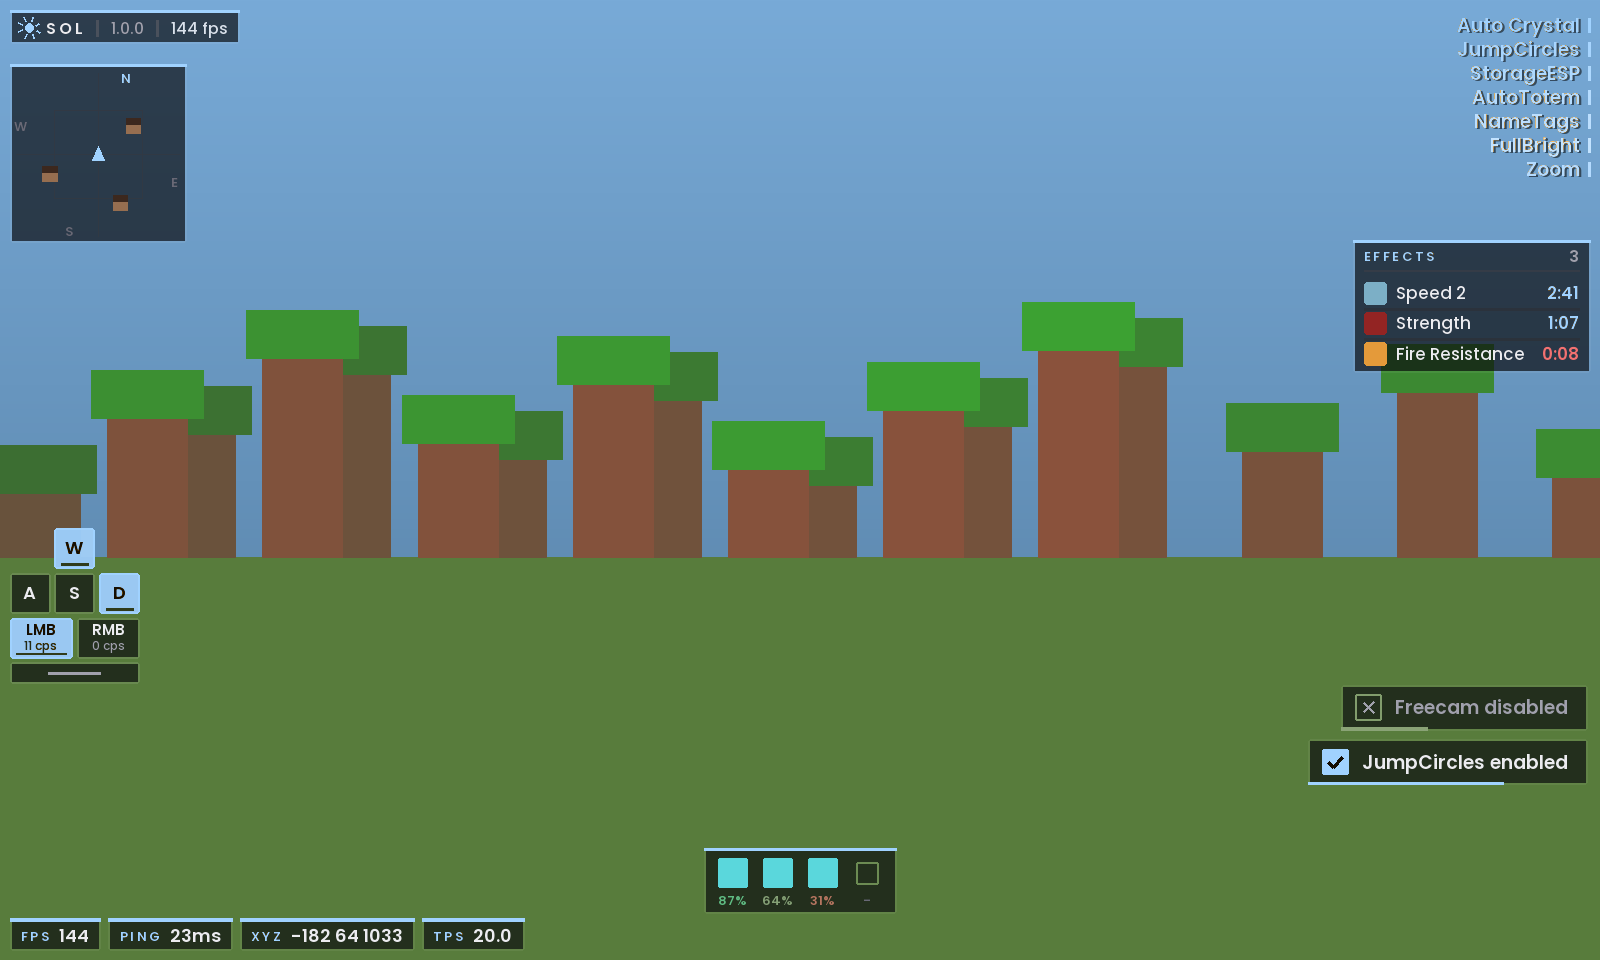
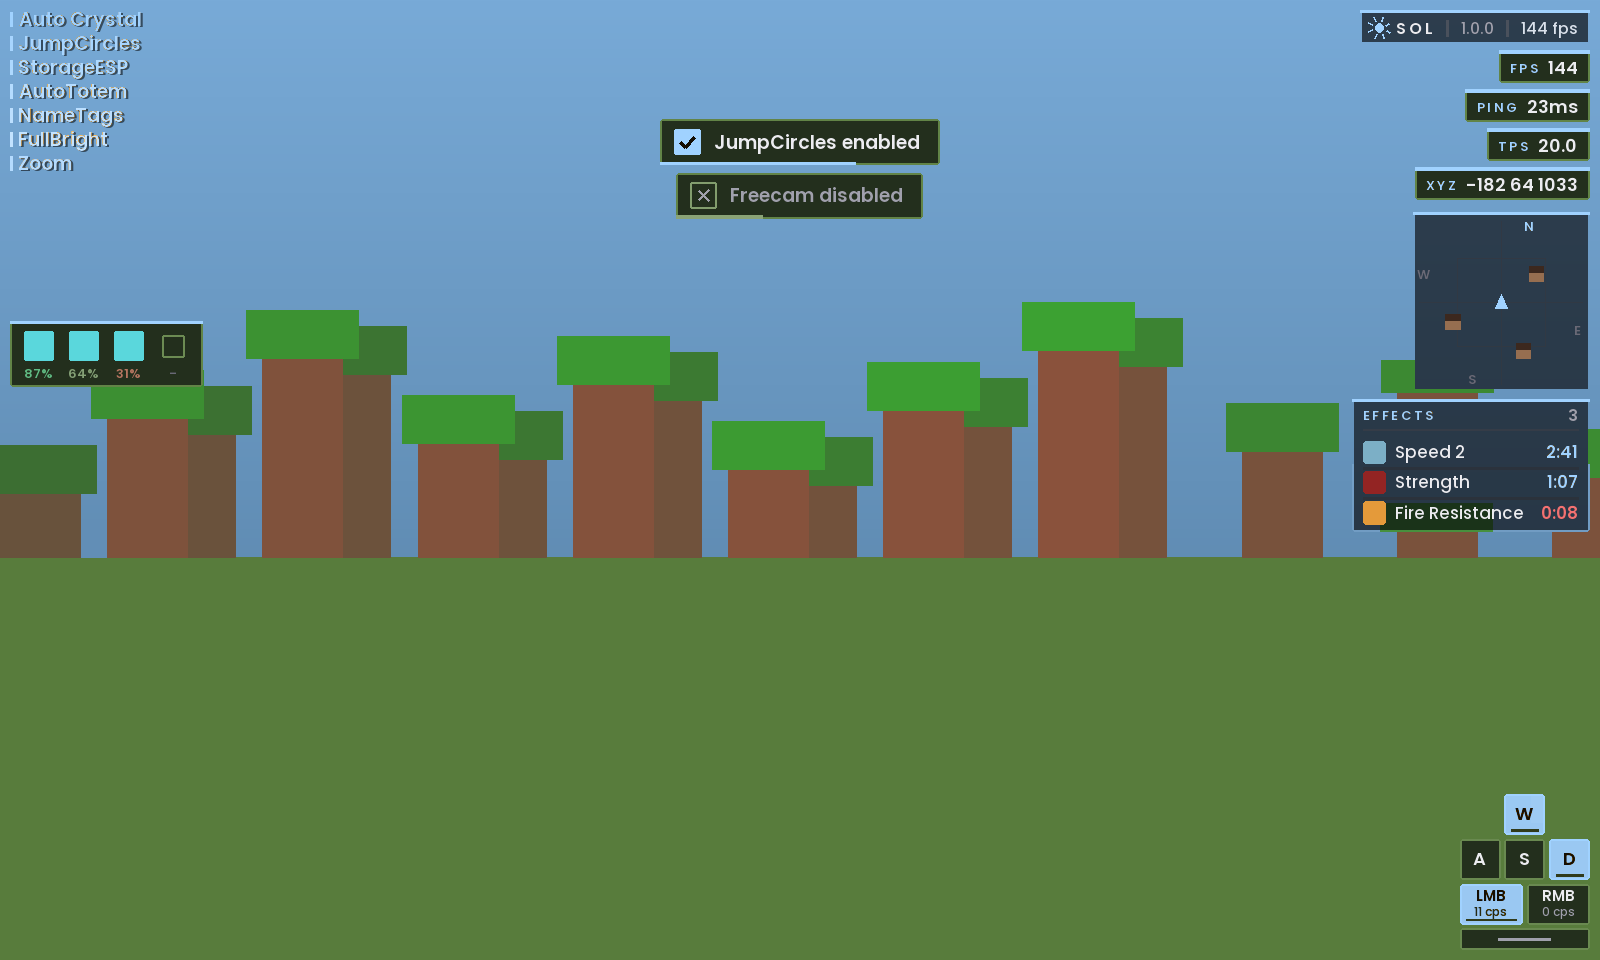
New HUD layout

diff --git a/src/main/java/dev/sol/hud/HudManager.java b/src/main/java/dev/sol/hud/HudManager.java
@@ -34,15 +34,15 @@ public class HudManager {
       Modules.HudModule hud = modules.hud;
       this.components.add(new WatermarkHud(themes, () -> hud.isEnabled() && (Boolean)hud.watermark.get()));
       this.components.add(new ArrayListHud(modules, hud, themes, () -> hud.isEnabled() && (Boolean)hud.arrayList.get()));
-      this.components.add(new InfoHud("fps", themes, "FPS", () -> Integer.toString(class_310.method_1551().method_47599()), 0.006F, 0.985F, () -> hud.isEnabled() && (Boolean)hud.fps.get()));
-      this.components.add(new InfoHud("ping", themes, "Ping", HudManager::pingString, 0.055F, 0.985F, () -> hud.isEnabled() && (Boolean)hud.ping.get()));
-      this.components.add(new InfoHud("coords", themes, "XYZ", HudManager::coordsString, 0.115F, 0.985F, () -> hud.isEnabled() && (Boolean)hud.coordinates.get()));
-      this.components.add(new InfoHud("direction", themes, "Facing", HudManager::directionString, 0.24F, 0.985F, () -> hud.isEnabled() && (Boolean)hud.direction.get()));
-      this.components.add(new InfoHud("tps", themes, "TPS", () -> String.format("%.1f", TpsTracker.get()), 0.33F, 0.985F, () -> hud.isEnabled() && (Boolean)hud.tps.get()));
+      this.components.add(new InfoHud("fps", themes, "FPS", () -> Integer.toString(class_310.method_1551().method_47599()), 0.997F, 0.042F, () -> hud.isEnabled() && (Boolean)hud.fps.get()));
+      this.components.add(new InfoHud("ping", themes, "Ping", HudManager::pingString, 0.997F, 0.076F, () -> hud.isEnabled() && (Boolean)hud.ping.get()));
+      this.components.add(new InfoHud("coords", themes, "XYZ", HudManager::coordsString, 0.997F, 0.178F, () -> hud.isEnabled() && (Boolean)hud.coordinates.get()));
+      this.components.add(new InfoHud("direction", themes, "Facing", HudManager::directionString, 0.997F, 0.212F, () -> hud.isEnabled() && (Boolean)hud.direction.get()));
+      this.components.add(new InfoHud("tps", themes, "TPS", () -> String.format("%.1f", TpsTracker.get()), 0.997F, 0.11F, () -> hud.isEnabled() && (Boolean)hud.tps.get()));
       this.components.add(new InfoHud("cps", themes, "CPS", () -> {
          int var10000 = CpsTracker.get(0);
          return var10000 + " | " + CpsTracker.get(1);
-      }, 0.4F, 0.985F, () -> hud.isEnabled() && (Boolean)hud.cps.get()));
+      }, 0.997F, 0.144F, () -> hud.isEnabled() && (Boolean)hud.cps.get()));
       this.components.add(new ArmorHud(themes, () -> hud.isEnabled() && (Boolean)hud.armor.get()));
       this.components.add(new PotionsHud(themes, () -> hud.isEnabled() && (Boolean)hud.potions.get()));
       this.components.add(new KeystrokesHud(themes, () -> hud.isEnabled() && (Boolean)hud.keystrokes.get()));
@@ -132,6 +132,7 @@ public class HudManager {
 
    public JsonObject toJson() {
       JsonObject json = new JsonObject();
+      json.addProperty("_layout", 2);
 
       for(HudComponent component : this.components) {
          JsonObject entry = new JsonObject();
@@ -145,10 +146,15 @@ public class HudManager {
    }
 
    public void fromJson(JsonObject json) {
+      boolean current = json.has("_layout") && json.get("_layout").getAsInt() >= 2;
+
       for(HudComponent component : this.components) {
          JsonObject entry = json.getAsJsonObject(component.getId());
          if (entry != null && entry.has("fx") && entry.has("fy")) {
-            component.setPosition(entry.get("fx").getAsFloat(), entry.get("fy").getAsFloat());
+            if (current) {
+               component.setPosition(entry.get("fx").getAsFloat(), entry.get("fy").getAsFloat());
+            }
+
             if (entry.has("scale")) {
                component.setScale(entry.get("scale").getAsFloat());
             }

diff --git a/src/main/java/dev/sol/notification/NotificationManager.java b/src/main/java/dev/sol/notification/NotificationManager.java
@@ -29,7 +29,7 @@ public class NotificationManager extends HudComponent {
    private final List<Toast> toasts = new ArrayList();
 
    public NotificationManager(ThemeManager themes, Modules.HudModule hud) {
-      super("notifications", 0.99F, 0.71F, () -> hud.isEnabled() && (Boolean)hud.notifications.get());
+      super("notifications", 0.5F, 0.045F, () -> hud.isEnabled() && (Boolean)hud.notifications.get());
       this.themes = themes;
       this.hud = hud;
    }
@@ -104,7 +104,9 @@ public class NotificationManager extends HudComponent {
             vg.save();
             vg.translate((float)Math.round(boxX), (float)Math.round(boxY));
             vg.scale(scale);
-            float yCursor = 30.0F;
+            int align = this.getFx() < 0.34F ? 0 : (this.getFx() > 0.66F ? 2 : 1);
+            boolean down = this.getFy() < 0.5F;
+            float yCursor = down ? 0.0F : 30.0F;
 
             for(int i = alive.size() - 1; i >= 0; --i) {
                Toast toast = (Toast)alive.get(i);
@@ -112,12 +114,12 @@ public class NotificationManager extends HudComponent {
                float fadeOut = Math.clamp((life + 0.3F - age) / 0.3F, 0.0F, 1.0F);
                float slide = toast.slide.value();
                float remaining = Math.clamp(1.0F - age / Math.max(0.1F, life), 0.0F, 1.0F);
-               float toastH = this.drawToast(vg, theme, 168.0F, yCursor, slide, fadeOut, remaining, toast.title, toast.subtitle, toast.weather, toast.accent);
-               yCursor -= toastH + 6.0F;
+               float toastH = this.drawToast(vg, theme, align, down, yCursor, slide, fadeOut, remaining, toast.title, toast.subtitle, toast.weather, toast.accent);
+               yCursor += down ? toastH + 6.0F : -(toastH + 6.0F);
             }
 
             if (alive.isEmpty() && editing) {
-               this.drawToast(vg, theme, 168.0F, yCursor, 1.0F, 0.5F, 0.6F, "Notification", (String)null, (Weather)null, true);
+               this.drawToast(vg, theme, align, down, yCursor, 1.0F, 0.5F, 0.6F, "Notification", (String)null, (Weather)null, true);
             }
 
             vg.restore();
@@ -126,15 +128,24 @@ public class NotificationManager extends HudComponent {
       }
    }
 
-   private float drawToast(NVGRenderer vg, Theme theme, float rightEdge, float bottom, float slide, float fadeOut, float remaining, String title, String subtitle, Weather weather, boolean accent) {
+   private float drawToast(NVGRenderer vg, Theme theme, int align, boolean down, float anchorY, float slide, float fadeOut, float remaining, String title, String subtitle, Weather weather, boolean accent) {
       boolean twoLine = subtitle != null;
       float h = twoLine ? 40.0F : 28.0F;
       float chip = 16.0F;
       float textStart = 9.0F + chip + 9.0F;
       float textW = Math.max(vg.textWidthBold(title, 12.0F), twoLine ? vg.textWidth(subtitle, 10.5F) : 0.0F);
       float w = textStart + textW + 12.0F;
-      float x = rightEdge - w + (1.0F - slide) * (w + 10.0F);
-      float y = bottom - h;
+      float hide = 1.0F - slide;
+      float x;
+      float y = down ? anchorY : anchorY - h;
+      if (align == 0) {
+         x = -hide * (w + 10.0F);
+      } else if (align == 2) {
+         x = 168.0F - w + hide * (w + 10.0F);
+      } else {
+         x = (168.0F - w) / 2.0F;
+         y += (down ? -1.0F : 1.0F) * hide * (h + 8.0F);
+      }
       vg.save();
       vg.alpha(fadeOut);
       HudStyle.plain(vg, x, y, w, h);

diff --git a/src/main/java/dev/sol/hud/components/ArrayListHud.java b/src/main/java/dev/sol/hud/components/ArrayListHud.java
@@ -30,7 +30,7 @@ public class ArrayListHud extends HudComponent {
    private final Map<Module, Animation> slide = new HashMap();
 
    public ArrayListHud(ModuleManager modules, Modules.HudModule hudModule, ThemeManager themes, BooleanSupplier visible) {
-      super("arraylist", 1.0F, 0.008F, visible);
+      super("arraylist", 0.004F, 0.008F, visible);
       this.modules = modules;
       this.hudModule = hudModule;
       this.themes = themes;

diff --git a/src/main/java/dev/sol/hud/components/SpotifyHud.java b/src/main/java/dev/sol/hud/components/SpotifyHud.java
@@ -32,7 +32,7 @@ public class SpotifyHud extends HudComponent {
    private static final long DEMO_START = System.nanoTime();
 
    public SpotifyHud(Modules.SpotifyModule module, SpotifyService service, ThemeManager themes) {
-      super("spotify", 0.5F, 0.965F, module::isEnabled);
+      super("spotify", 0.997F, 0.8F, module::isEnabled);
       this.module = module;
       this.service = service;
       this.themes = themes;

diff --git a/src/main/java/dev/sol/hud/components/RadarHud.java b/src/main/java/dev/sol/hud/components/RadarHud.java
@@ -21,7 +21,7 @@ public class RadarHud extends HudComponent {
    private ThemeManager themes;
 
    public RadarHud(Modules.HudModule module, Modules.SusChunkFinderModule susFinder, ThemeManager themes, BooleanSupplier visible) {
-      super("radar", 0.006F, 0.45F, visible);
+      super("radar", 0.997F, 0.28F, visible);
       this.module = module;
       this.susFinder = susFinder;
       this.themes = themes;

diff --git a/src/main/java/dev/sol/hud/components/StaffListHud.java b/src/main/java/dev/sol/hud/components/StaffListHud.java
@@ -42,7 +42,7 @@ public class StaffListHud extends HudComponent {
    private final Map<String, RowAnim> rows;
 
    public StaffListHud(StaffListModule module, ThemeManager themes) {
-      super("staffList", 0.008F, 0.27F, module::isEnabled);
+      super("staffList", 0.004F, 0.45F, module::isEnabled);
       this.rows = new LinkedHashMap();
       this.module = module;
       this.themes = themes;

diff --git a/src/main/java/dev/sol/hud/components/RegionMapHud.java b/src/main/java/dev/sol/hud/components/RegionMapHud.java
@@ -24,7 +24,7 @@ public class RegionMapHud extends HudComponent {
    private ThemeManager themes;
 
    public RegionMapHud(RegionMapModule module, ThemeManager themes) {
-      super("regionMap", 0.008F, 0.05F, module::isEnabled);
+      super("regionMap", 0.004F, 0.64F, module::isEnabled);
       this.module = module;
       this.themes = themes;
    }

diff --git a/src/main/java/dev/sol/hud/components/KeystrokesHud.java b/src/main/java/dev/sol/hud/components/KeystrokesHud.java
@@ -24,7 +24,7 @@ public class KeystrokesHud extends HudComponent {
    private final Map<String, Animation> press = new HashMap();
 
    public KeystrokesHud(ThemeManager themes, BooleanSupplier visible) {
-      super("keystrokes", 0.03F, 0.72F, visible);
+      super("keystrokes", 0.997F, 0.985F, visible);
       this.themes = themes;
    }
 

diff --git a/src/main/java/dev/sol/hud/components/WatermarkHud.java b/src/main/java/dev/sol/hud/components/WatermarkHud.java
@@ -18,7 +18,7 @@ public class WatermarkHud extends HudComponent {
    private ThemeManager themes;
 
    public WatermarkHud(ThemeManager themes, BooleanSupplier visible) {
-      super("watermark", 0.006F, 0.01F, visible);
+      super("watermark", 0.997F, 0.008F, visible);
       this.themes = themes;
    }
 

diff --git a/src/main/java/dev/sol/hud/components/PotionsHud.java b/src/main/java/dev/sol/hud/components/PotionsHud.java
@@ -25,7 +25,7 @@ public class PotionsHud extends HudComponent {
    private ThemeManager themes;
 
    public PotionsHud(ThemeManager themes, BooleanSupplier visible) {
-      super("potions", 0.995F, 0.6F, visible);
+      super("potions", 0.997F, 0.52F, visible);
       this.themes = themes;
    }
 

diff --git a/src/main/java/dev/sol/hud/components/ArmorHud.java b/src/main/java/dev/sol/hud/components/ArmorHud.java
@@ -23,7 +23,7 @@ public class ArmorHud extends HudComponent {
    private ThemeManager themes;
 
    public ArmorHud(ThemeManager themes, BooleanSupplier visible) {
-      super("armor", 0.5F, 0.8F, visible);
+      super("armor", 0.004F, 0.36F, visible);
       this.themes = themes;
    }
 
